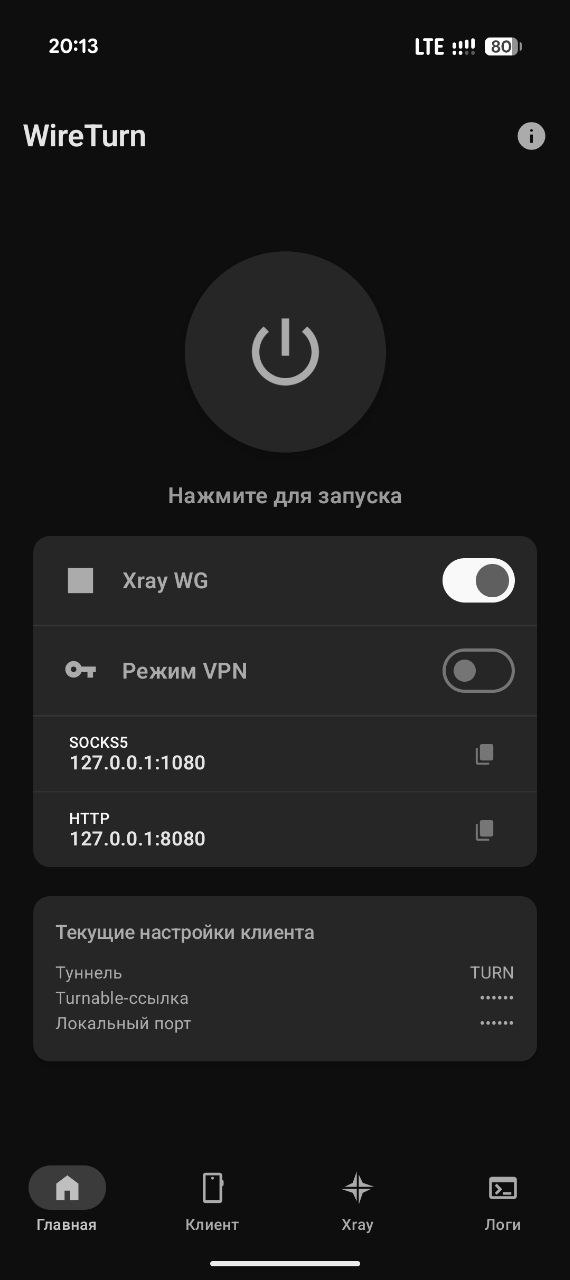
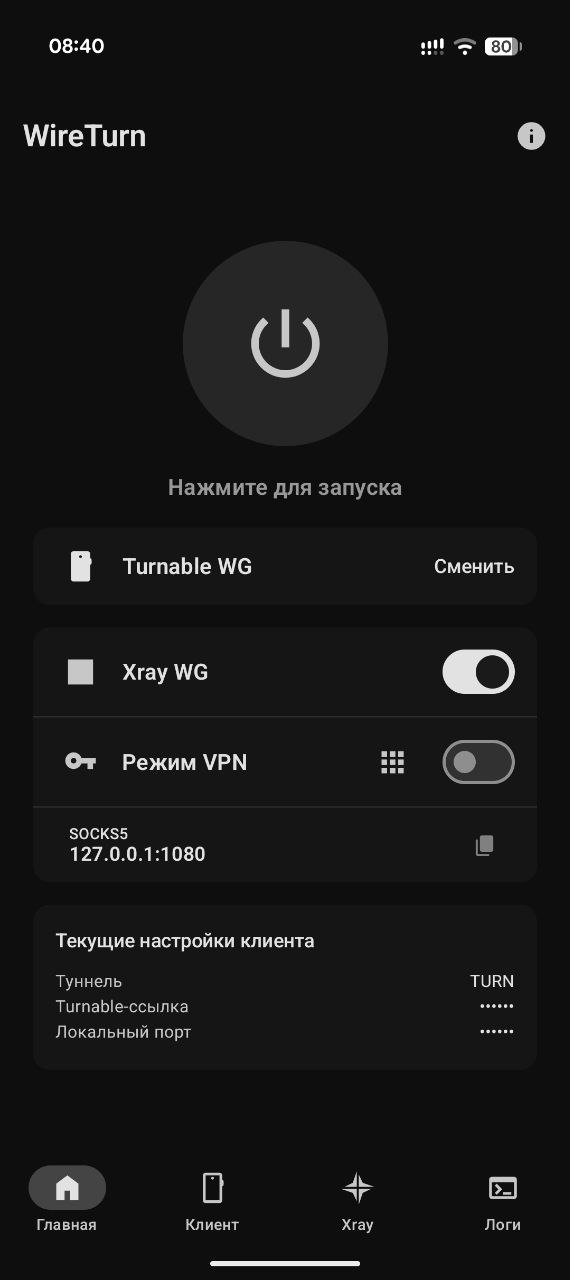
docs: обновление README.md и скриншотов
- В описание возможностей добавлен Split Tunneling (исключение приложений из VPN-туннеля).
- Добавлено описание системы профилей: поддержка нескольких конфигураций, импорт/экспорт в JSON и быстрое переключение.
- Обновлен раздел «Инструкция по настройке»:
    - Добавлен этап работы с профилями.
    - Описана настройка Split Tunneling.
    - Уточнены детали настройки Xray для WireGuard и VLESS.
- Реорганизован список возможностей: поддержка VLESS, WireGuard и Turnable интегрирована в описания движков.
- Добавлено упоминание возможности смены профиля через уведомления.
- Обновлены файлы скриншотов в `docs/screenshots/`.

diff --git a/README.md b/README.md
@@ -10,19 +10,18 @@ Android-клиент для [vk-turn-proxy](https://github.com/spkprsnts/vk-turn
 
 ## Возможности
 
-- **VPN Mode (Global)** — полноценный VPN-режим (TUN) для перенаправления трафика всего устройства через прокси (на базе `tun2socks`).
-- **Xray Engine** — встроенный прокси-движок для работы в режиме локального SOCKS5/HTTP прокси.
+- **VPN Mode & Split Tunneling** — полноценный VPN-режим (TUN) с возможностью исключения выбранных приложений из туннеля (на базе `tun2socks`).
+- **Система профилей** — создание независимых конфигураций, поддержка импорта/экспорта в JSON и быстрое переключение между ними.
+- **Xray Engine** — встроенный прокси-движок для работы с VLESS и WireGuard в режиме локального SOCKS5/HTTP прокси.
 - **Два режима работы клиента**:
     - **TURN Mode** — классический проброс через TURN-серверы (выбор ядра: vk-turn-proxy или Turnable).
     - **DC Mode (DataChannel)** — работа через инфраструктуру **Salute Jazz** и **WB Stream** (форк-ядро vk-turn-proxy).
-- **Поддержка Turnable** — использование высокопроизводительного ядра с поддержкой ссылок формата `turnable://`.
-- **Поддержка VLESS и WireGuard** — инкапсуляция трафика в современные прокси-протоколы.
-- **Privacy Mode** — режим конфиденциальности, скрывающий чувствительные данные (ссылки, адреса, UUID) в интерфейсе.
-- **Метрики в реальном времени** — отображение пинга до цели и скорости передачи данных (RX/TX) непосредственно на главном экране.
+- **Быстрое управление** — смена профиля прямо из уведомления, управление через Quick Settings Tile или Broadcast Intent API.
+- **Метрики в реальном времени** — отображение пинга и актуальной скорости передачи данных (RX/TX) на главном экране.
 - **Умный Watchdog** — автоматическое переподключение при смене сети, потере пакетов или падении процесса ядра.
-- **Автоматизация** — управление через Quick Settings Tile (плитка в шторке) или через Broadcast Intent API.
+- **Privacy Mode** — режим конфиденциальности, скрывающий чувствительные данные (ссылки, адреса, UUID) в интерфейсе.
 - **Кастомное ядро** — возможность загрузки собственного бинарника прокси-туннеля прямо из интерфейса.
-- **Авто-обновление** — встроенная система проверки и установки обновлений приложения, работающая даже через активный прокси.
+- **Авто-обновление** — встроенная система проверки и установки обновлений приложения.
 - **Material You** — современный интерфейс с поддержкой динамических цветов и тактильной отдачи.
 
 ## Автоматизация (Intent API)
@@ -75,22 +74,25 @@ nohup ./server-linux-amd64 -vless -listen 0.0.0.0:56000 -connect 127.0.0.1:<по
 1. **Установка:**
    Скачайте и установите APK-файл из раздела [Releases](https://github.com/spkprsnts/WireTurn/releases/latest).
 
-2. **Конфигурация прокси-туннеля:**
-   Перейдите на вкладку **Клиент** и настройте параметры соединения:
+2. **Работа с профилями:**
+   Все настройки привязаны к профилям. Вы можете создавать неограниченное количество конфигураций, экспортировать их в JSON и быстро переключаться между ними.
+
+3. **Конфигурация прокси-туннеля:**
+   В выбранном профиле перейдите на вкладку **Клиент** и настройте параметры соединения:
    - **Выбор режима:**
      - **TURN**: классический проброс. Выберите ядро (**vk-turn-proxy** или **Turnable**) и укажите настройки подключения (адрес и ссылка на звонок, либо `turnable://`).
      - **DC (DataChannel)**: работа через WebRTC-инфраструктуру. Выберите сервис (**Salute Jazz** или **WB Stream**) и введите идентификатор комнаты (Код:Пароль или UUID).
-   - **Локальный адрес:** укажите адрес и порт для прослушивания (например, `127.0.0.1:9000`). Этот адрес будет использоваться как точка входа для трафика.
+   - **Локальный адрес:** укажите адрес и порт для прослушивания (например, `127.0.0.1:9000`).
 
-3. **Настройка Xray (для WireGuard/VLESS):**
+4. **Настройка Xray (для WireGuard/VLESS):**
    Если вы используете Xray для инкапсуляции трафика:
    - Перейдите на вкладку **Xray** и импортируйте конфигурацию (через QR-код, файл или буфер обмена).
-   - **Важно:** Для WireGuard убедитесь, что поле `Endpoint` в настройках Xray совпадает с **Локальным адресом прослушивания**. Для VLESS можно включить опцию «Использовать адрес прослушивания» в настройках прокси или вручную изменить адрес в ссылке.
+   - **Важно:** Для WireGuard убедитесь, что поле `Endpoint` в настройках Xray совпадает с **Локальным адресом прослушивания**. Для VLESS можно включить опцию «Использовать адрес прослушивания» в настройках прокси.
 
-4. **Запуск и управление:**
-   - На вкладке **Главная** нажмите центральную кнопку для запуска прокси-туннеля.
-   - **Xray**: переключатель управляет использованием Xray-движка. Xray запускается только при активном прокси-туннеле и может быть отключен независимо от него.
-   - **VPN Mode**: системный VPN-режим. Работает **только при включенном Xray**, так как использует его как вышестоящий прокси. Если Xray не активен, VPN Mode не запустится.
+5. **Запуск и управление:**
+   - На вкладке **Главная** нажмите центральную кнопку для запуска.
+   - **VPN Mode**: системный VPN-режим. Работает **только при включенном Xray**, так как использует его как вышестоящий прокси.
+   - **Split Tunneling**: в настройках можно выбрать приложения-исключения для VPN-режима.
 
 > **Примечание:** Обратите внимание на соответствие протоколов. Если прокси-туннель настроен на работу с VLESS (флаг `-vless` на сервере), то и в Xray должен быть настроен протокол VLESS. Прямой совместимости между WireGuard и VLESS через один туннель нет.
 
